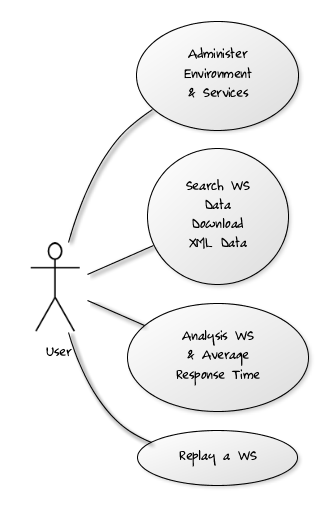
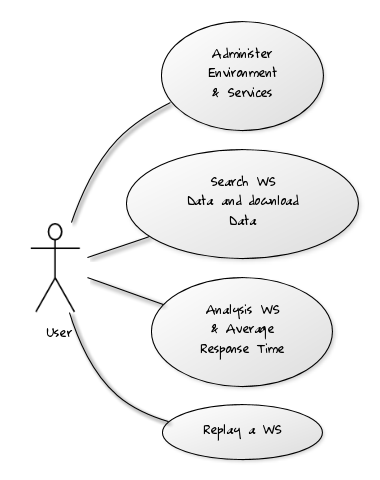
Add informations when editing/creating a service. Update class and UC diagrams

diff --git a/public/partials/services/detail.html b/public/partials/services/detail.html
@@ -35,12 +35,17 @@
 
             <span ng-show="myForm.environment.$error.required" class="help-inline">Required</span>
         </div>
+        <div class="col-lg-6 help-block">You have to chose if the service will be called by SOAP or REST requests.
+            If you chose REST, you will have to set the http method bound to the REST service and the local target will start with /rest.
+        </div>
     </div>
     <div class="form-group" ng-class="{error: myForm.environment.$invalid}" ng-show="service.typeRequest == 'rest'">
         <label for="methods" class="col-lg-2 control-label">HTTP Method</label>
         <div class="col-lg-4">
             <select class="form-control" ng-model="service.httpMethod" id="methods" ng-options="method for method in methods" required></select>
             <span ng-show="myForm.environment.$error.required" class="help-inline">Required</span>
+        </div>
+        <div class="col-lg-6 help-block">Set the HTTP method used to call the service
         </div>
     </div>
 
@@ -52,6 +57,8 @@
             <span ng-show="myForm.localTarget.$error.required" class="help-inline">Required</span>
             <span ng-show="myForm.localTarget.$error.required" class="help-block">Enter service1 to have http://{{ hostname }}:{{ port }}/{{ service.typeRequest }}/{{ service.environment.name || "environment" }}/<b>service1</b></span>
             <span ng-show="!myForm.localTarget.$error.required" class="help-block">Local Target : http://{{ hostname }}:{{ port }}/{{ service.typeRequest }}/{{ service.environment.name || "environment" }}/<b>{{ service.localTarget }}</b> </span>
+        </div>
+        <div class="col-lg-6 help-block">Every requests on the service will have a ServiceAction. This ServiceAction is the SoapAction (if it exists in case of a SOAP service) or the HTTP method followed by the localTarget of the service.
         </div>
     </div>
 

diff --git a/public/partials/admin/admin.html b/public/partials/admin/admin.html
@@ -81,7 +81,7 @@ showResponseUpload : {{showResponseUpload}}
 
         <div class="controls">
             <label class="radio" ng-class="{checked: deleteForm.typeAction == 'xml-data'}">
-                <input type="radio" ng-model="deleteForm.typeAction" value="xml-data"> Only XML Data
+                <input type="radio" ng-model="deleteForm.typeAction" value="xml-data"> Only Content Data
             </label>
             <label class="radio" ng-class="{checked: deleteForm.typeAction == 'all-data'}">
                 <input type="radio" ng-model="deleteForm.typeAction" value="all-data"> All Data
